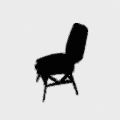
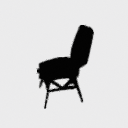
better params

diff --git a/real_3D/search_view.py b/real_3D/search_view.py
@@ -33,15 +33,15 @@ SHAPE_IMG   = OUT_DIR / "shape.png"
 OVERLAY_IMG = OUT_DIR / "overlay.png"
 CAMERA_JSON = OUT_DIR / "camera.json"
 
-IMG_SIZE = 120  # small + fast
+IMG_SIZE = 128  # small + fast
 
 COARSE_AZ_STEP = 15.0
 COARSE_EL_STEP = 15.0
 AZ_MIN, AZ_MAX = -180.0, 180.0
 EL_MIN, EL_MAX = -60.0, 60.0
 
-FINE_AZ_DELTA = 20.0
-FINE_EL_DELTA = 20.0
+FINE_AZ_DELTA = 15.0
+FINE_EL_DELTA = 15.0
 FINE_AZ_STEP  = 0.5
 FINE_EL_STEP  = 0.5
 
